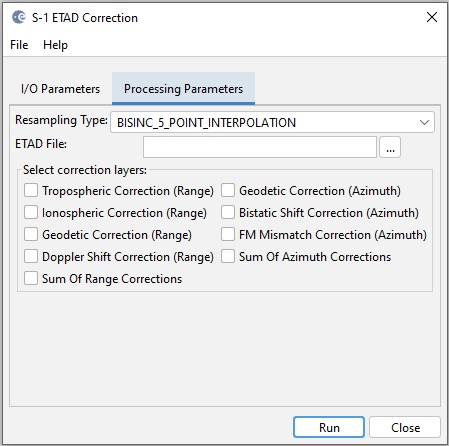
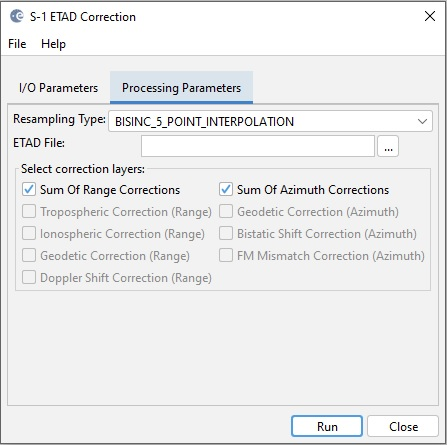
SRM-98 Set default layers for ETAD correction

diff --git a/sar-op-sentinel1-ui/src/main/resources/eu/esa/sar/sentinel1/docs/operators/S1ETADCorrectionOp.html b/sar-op-sentinel1-ui/src/main/resources/eu/esa/sar/sentinel1/docs/operators/S1ETADCorrectionOp.html
@@ -51,7 +51,7 @@ contains all the individual range correction layers in it, and the "Sum
 Of Azimuth Corrections" contains all the individual azimuth correction
 layers. Therefore, they should not be selected together with any of the
 individual layers.</li></ul>
-<p><img style="width: 449px; height: 446px;" alt="" src="images/S1ETADCorrectionOp.jpg"><br></p><br>
+<p><img style="width: 447px; height: 445px;" alt="" src="images/S1ETADCorrectionOp.jpg"><br></p><br>
 <h3>Reference:</h3>
 <p>[1] S1-ETAD Project: Product definition Document, Doc. ID ETAD-DLR-PS-0002, Issue 2.4, Date 06.03.2023, Page 1 of 37.</p><p>[2] S1-ETAD: Product Format Specification Document, Doc. ID ETAD-DLR-PS-0014, Issue 1.8, Date 06.03.2023, Page 1 of 63.</p>
 

diff --git a/sar-op-sentinel1-ui/src/main/java/eu/esa/sar/sentinel1/gpf/ui/S1ETADCorrectionOpUI.java b/sar-op-sentinel1-ui/src/main/java/eu/esa/sar/sentinel1/gpf/ui/S1ETADCorrectionOpUI.java
@@ -260,10 +260,21 @@ public class S1ETADCorrectionOpUI extends BaseOperatorUI {
 
         if(sumOfAzimuthCorrections != null) {
             sumOfAzimuthCorrectionsCheckBox.setSelected(sumOfAzimuthCorrections);
+            if (sumOfAzimuthCorrections) {
+                geodeticCorrectionAzCheckBox.setEnabled(false);
+                bistaticShiftCorrectionAzCheckBox.setEnabled(false);
+                fmMismatchCorrectionAzCheckBox.setEnabled(false);
+            }
         }
 
         if(sumOfRangeCorrections != null) {
             sumOfRangeCorrectionsCheckBox.setSelected(sumOfRangeCorrections);
+            if (sumOfRangeCorrections) {
+                troposphericCorrectionRgCheckBox.setEnabled(false);
+                ionosphericCorrectionRgCheckBox.setEnabled(false);
+                geodeticCorrectionRgCheckBox.setEnabled(false);
+                dopplerShiftCorrectionRgCheckBox.setEnabled(false);
+            }
         }
     }
 
@@ -311,6 +322,12 @@ public class S1ETADCorrectionOpUI extends BaseOperatorUI {
         correctionLayerSelectionPanel.setBorder(BorderFactory.createTitledBorder("Select correction layers:"));
 
         gbc2.gridx = 0;
+        correctionLayerSelectionPanel.add(sumOfRangeCorrectionsCheckBox, gbc2);
+        gbc2.gridx = 1;
+        correctionLayerSelectionPanel.add(sumOfAzimuthCorrectionsCheckBox, gbc2);
+
+        gbc2.gridy++;
+        gbc2.gridx = 0;
         correctionLayerSelectionPanel.add(troposphericCorrectionRgCheckBox, gbc2);
         gbc2.gridx = 1;
         correctionLayerSelectionPanel.add(geodeticCorrectionAzCheckBox, gbc2);
@@ -330,12 +347,6 @@ public class S1ETADCorrectionOpUI extends BaseOperatorUI {
         gbc2.gridy++;
         gbc2.gridx = 0;
         correctionLayerSelectionPanel.add(dopplerShiftCorrectionRgCheckBox, gbc2);
-        gbc2.gridx = 1;
-        correctionLayerSelectionPanel.add(sumOfAzimuthCorrectionsCheckBox, gbc2);
-
-        gbc2.gridy++;
-        gbc2.gridx = 0;
-        correctionLayerSelectionPanel.add(sumOfRangeCorrectionsCheckBox, gbc2);
         gbc2.gridx = 1;
 //        correctionLayerSelectionPanel.add(interferometricPhaseCorrectionRgCheckBox, gbc2);
 

diff --git a/sar-op-sentinel1/src/main/java/eu/esa/sar/sentinel1/gpf/S1ETADCorrectionOp.java b/sar-op-sentinel1/src/main/java/eu/esa/sar/sentinel1/gpf/S1ETADCorrectionOp.java
@@ -101,13 +101,13 @@ public class S1ETADCorrectionOp extends Operator {
             label = "FM Mismatch Correction (Azimuth)")
     private boolean fmMismatchCorrectionAz = false;
 
-    @Parameter(description = "Sum Of Azimuth Corrections", defaultValue = "false",
+    @Parameter(description = "Sum Of Azimuth Corrections", defaultValue = "true",
             label = "Sum Of Azimuth Corrections")
-    private boolean sumOfAzimuthCorrections = false;
+    private boolean sumOfAzimuthCorrections = true;
 
-    @Parameter(description = "Sum Of Range Corrections", defaultValue = "false",
+    @Parameter(description = "Sum Of Range Corrections", defaultValue = "true",
             label = "Sum Of Range Corrections")
-    private boolean sumOfRangeCorrections = false;
+    private boolean sumOfRangeCorrections = true;
 
     private Corrector etadCorrector;
     private MetadataElement absRoot = null;
